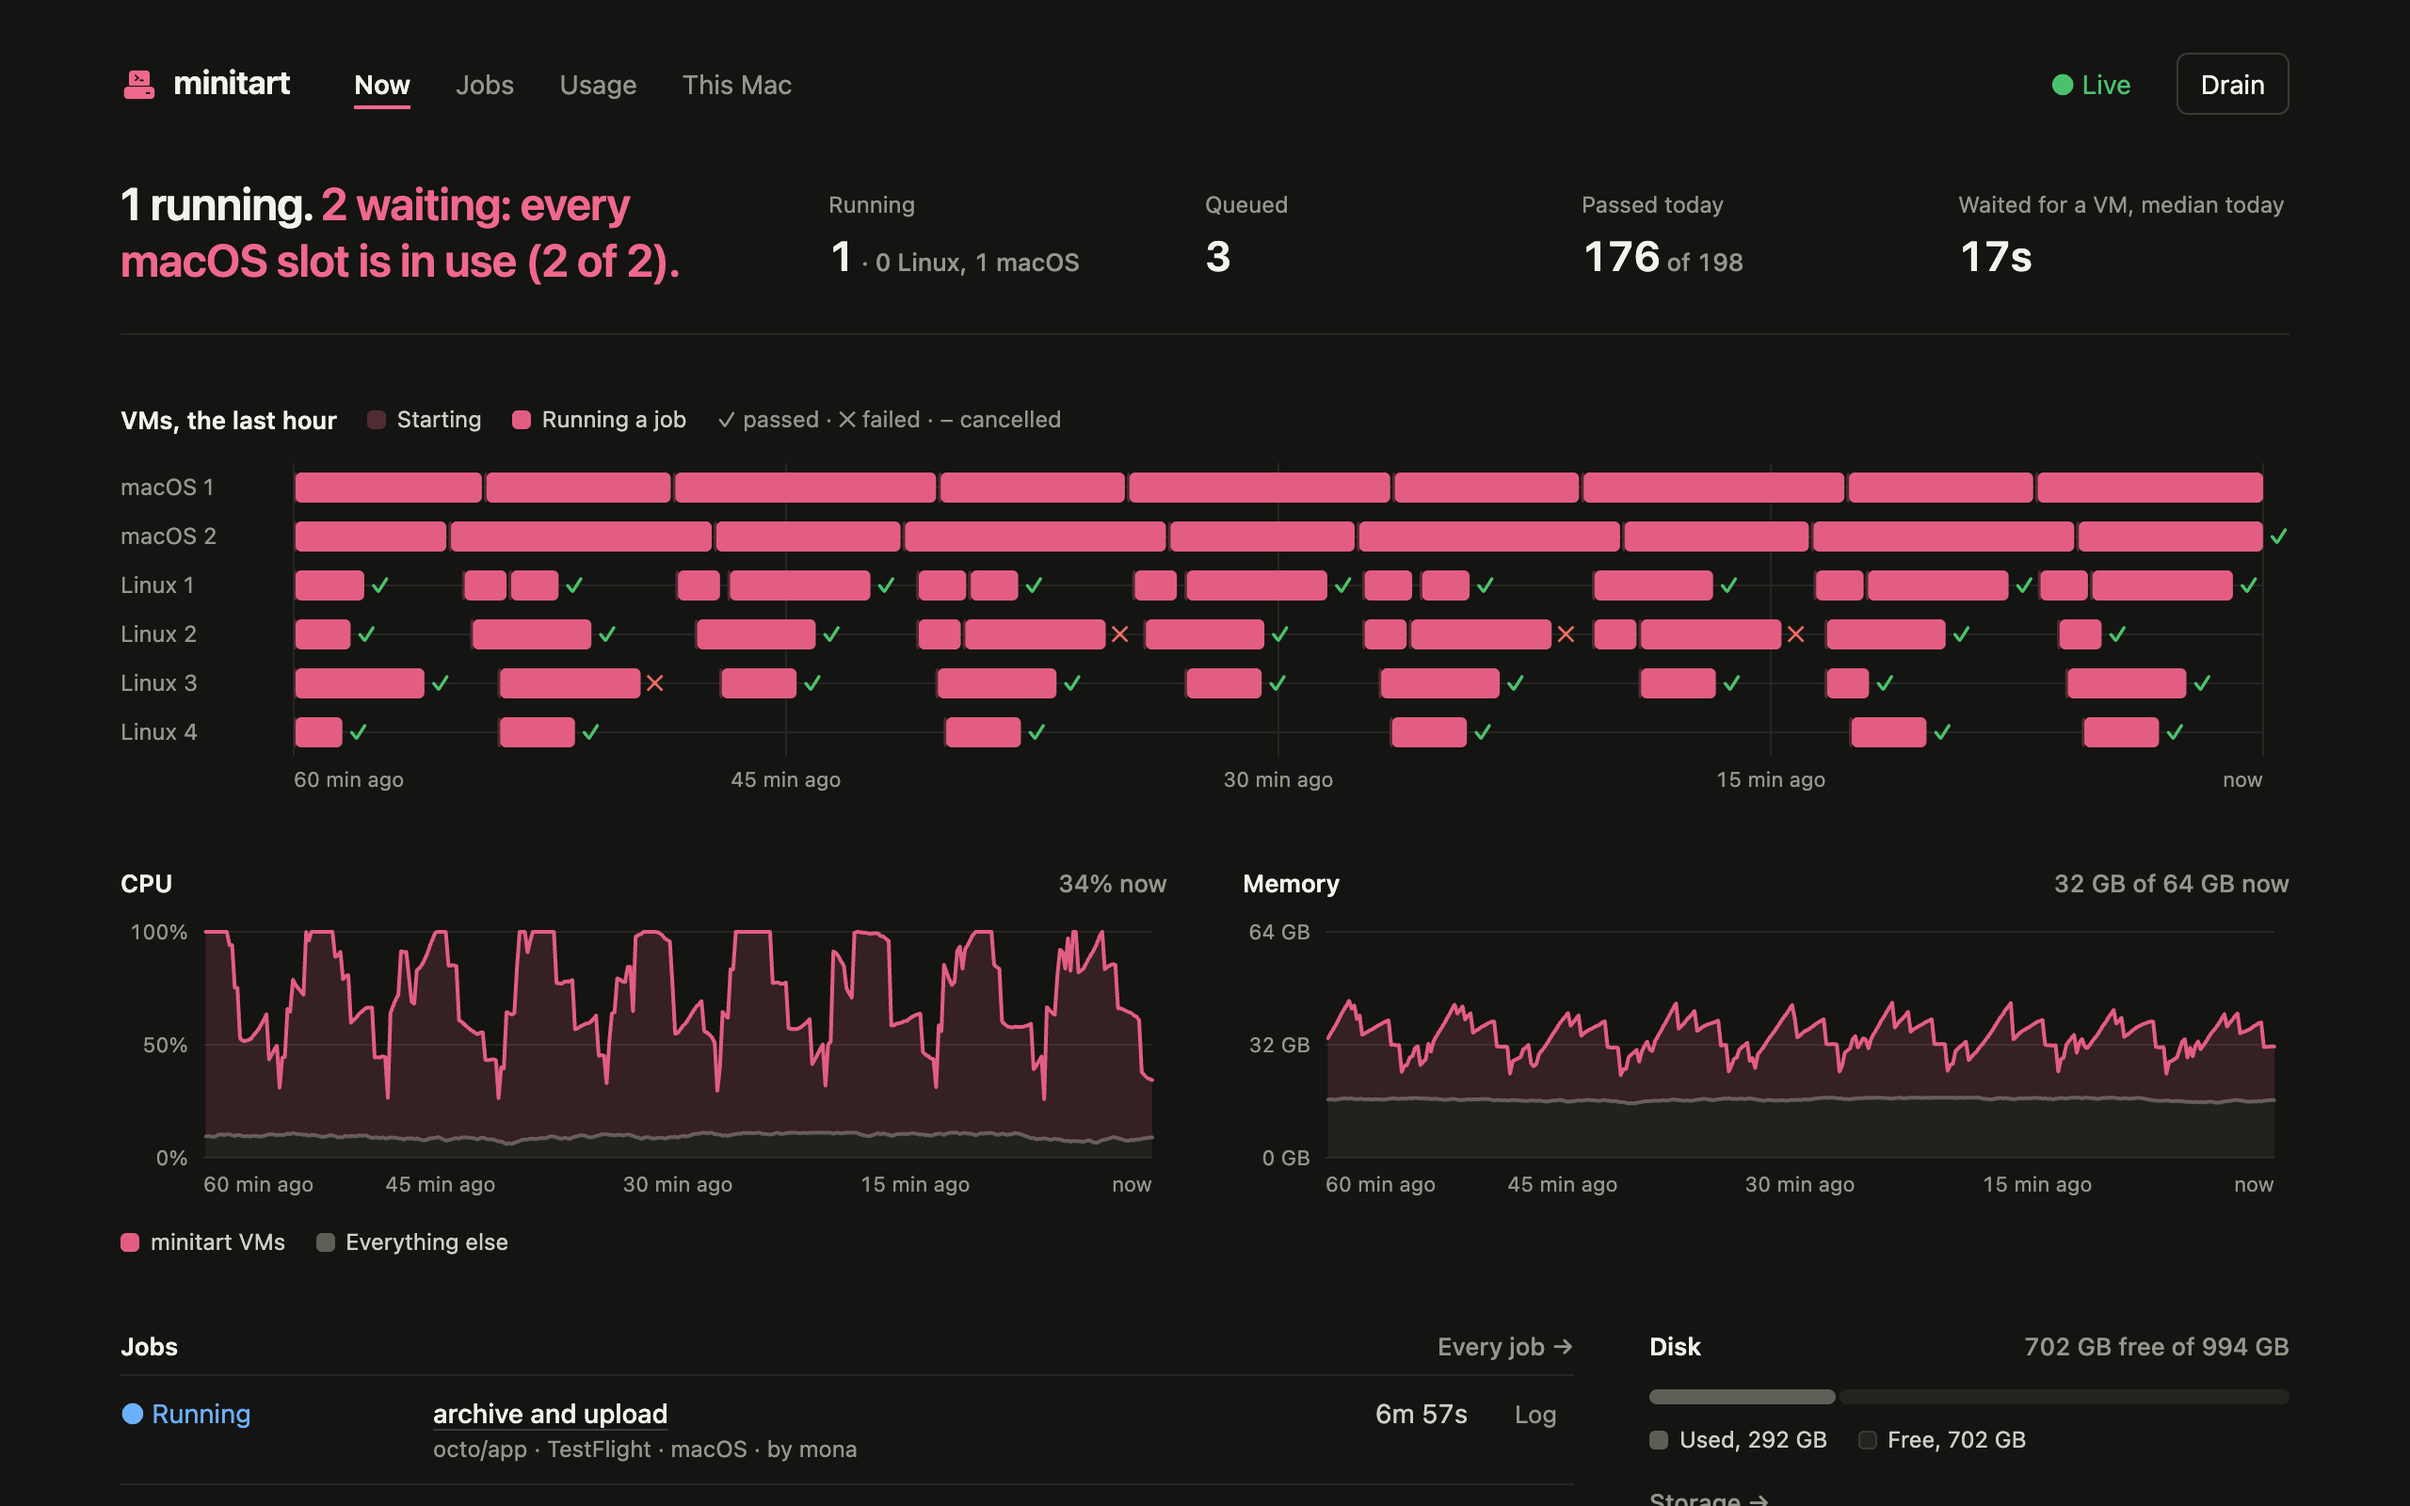
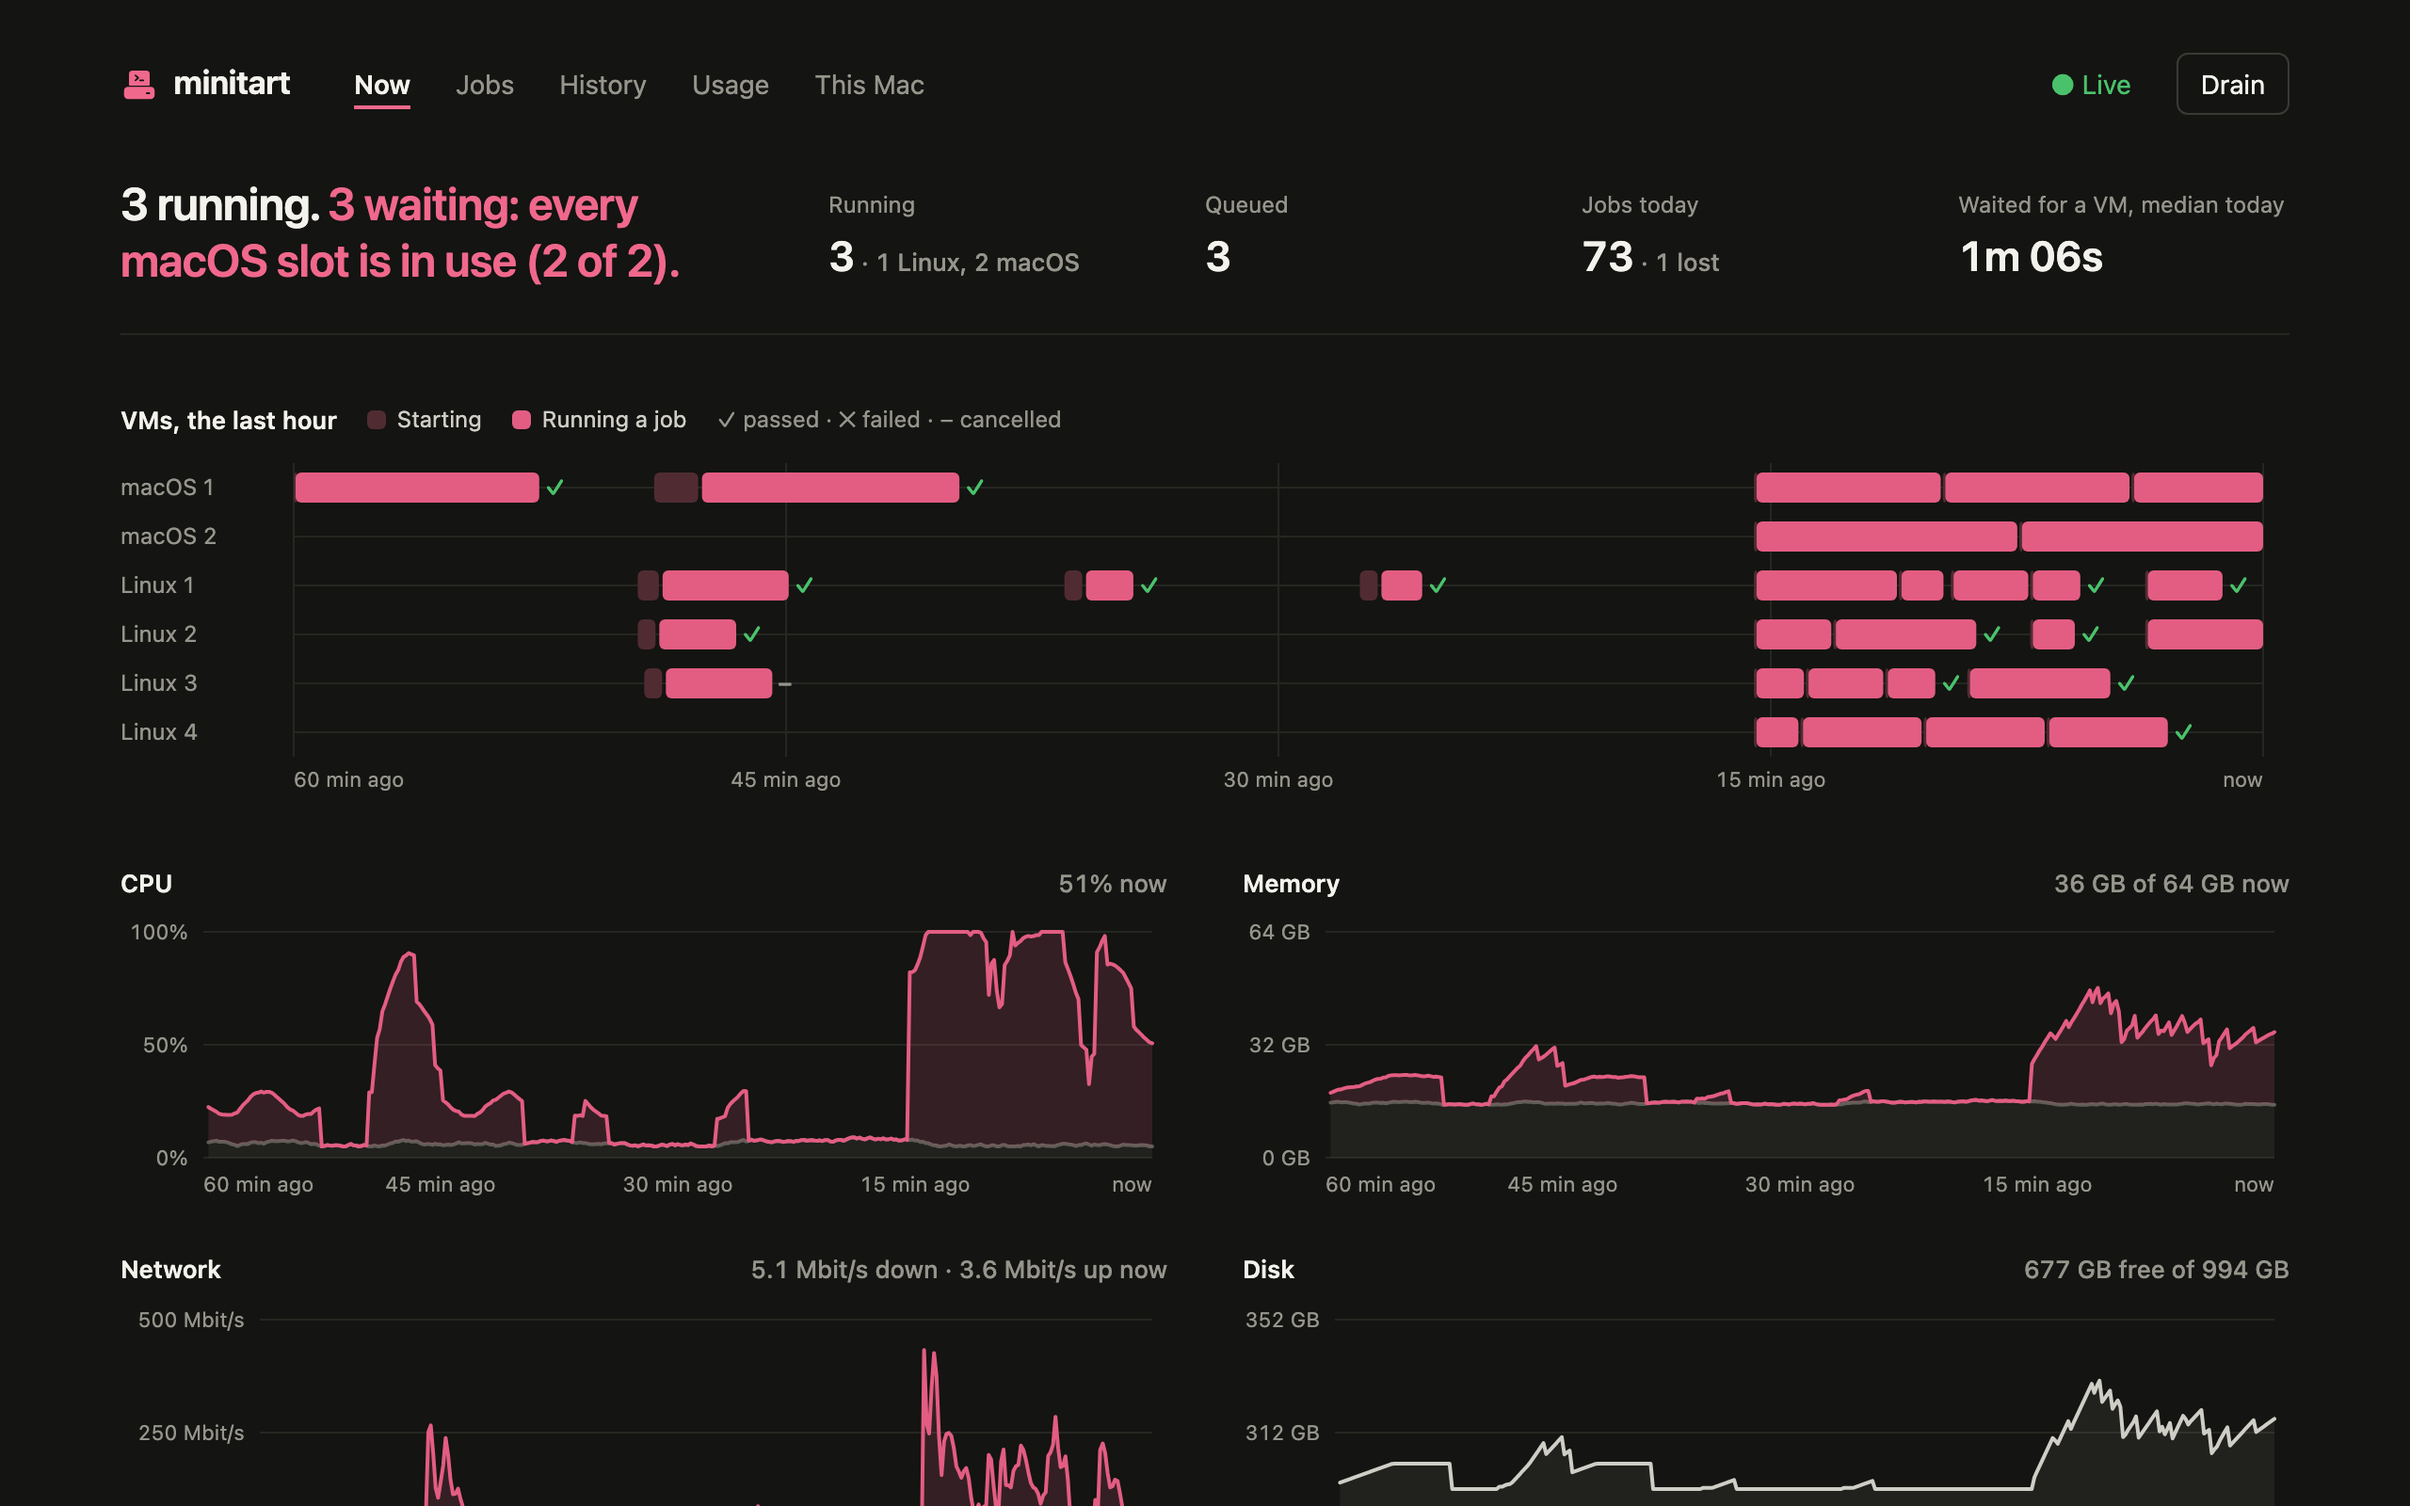
Retake the dashboard pictures: the History tab, four charts and jobs today (#38)

diff --git a/site/index.html b/site/index.html
@@ -55,12 +55,12 @@
             src="/dashboard-light.png"
             width="1280"
             height="800"
-            alt="The minitart dashboard: a line that says jobs are waiting for a macOS slot, a timeline of the last hour of VMs lane by lane, CPU and memory charts, and the list of jobs."
+            alt="The minitart dashboard: a line that says jobs are waiting for a macOS slot, a timeline of the last hour of VMs lane by lane, and charts of the Mac's CPU, memory, network and disk."
           />
         </picture>
         <figcaption>
           The dashboard, served from the Mac: what needs you, the last hour of VMs, and the Mac’s
-          CPU, memory and disk.
+          CPU, memory, network and disk.
         </figcaption>
       </figure>
 

diff --git a/README.md b/README.md
@@ -11,7 +11,7 @@ how it keeps your Mac and your network out of a job's reach.
 
 <picture>
   <source srcset="site/dashboard-dark.png" media="(prefers-color-scheme: dark)" />
-  <img src="site/dashboard-light.png" alt="The minitart dashboard: what needs you, a timeline of the last hour's VMs, CPU and memory charts, and the jobs" />
+  <img src="site/dashboard-light.png" alt="The minitart dashboard: what needs you, a timeline of the last hour's VMs, and charts of the Mac's CPU, memory, network and disk" />
 </picture>
 
 ## What you get
@@ -29,7 +29,7 @@ how it keeps your Mac and your network out of a job's reach.
 - **Nothing to configure by hand.** No file to write. VM counts start from what the Mac can
   hold and change in the dashboard, which saves them as plain JSON you can back up.
 - **A dashboard**: one line that says what needs you, a timeline of the last hour's VMs, the
-  Mac's CPU, memory and disk, and every job of the past year, with its log while GitHub
+  Mac's CPU, memory, network and disk, and every job of the past year, with its log while GitHub
   keeps it. On the Mac itself, or on your Tailscale tailnet if you want it there, and as an
   app in the Dock or on a phone. A History view goes back over the Mac's CPU, memory,
   network and disk as far as they are kept, and a Usage view counts the minutes run, with
